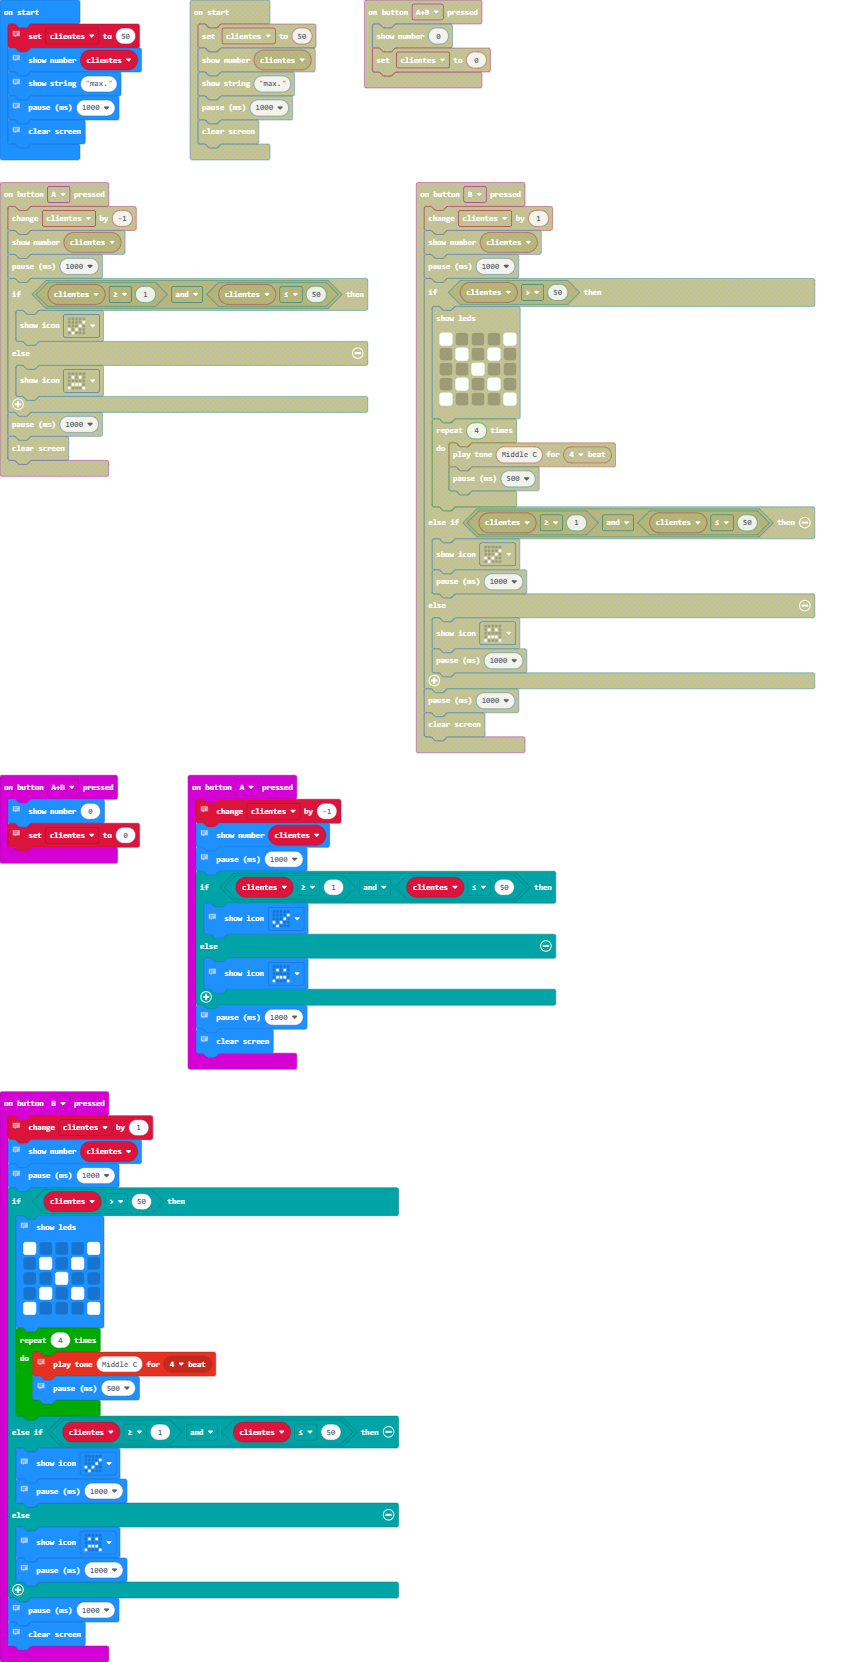
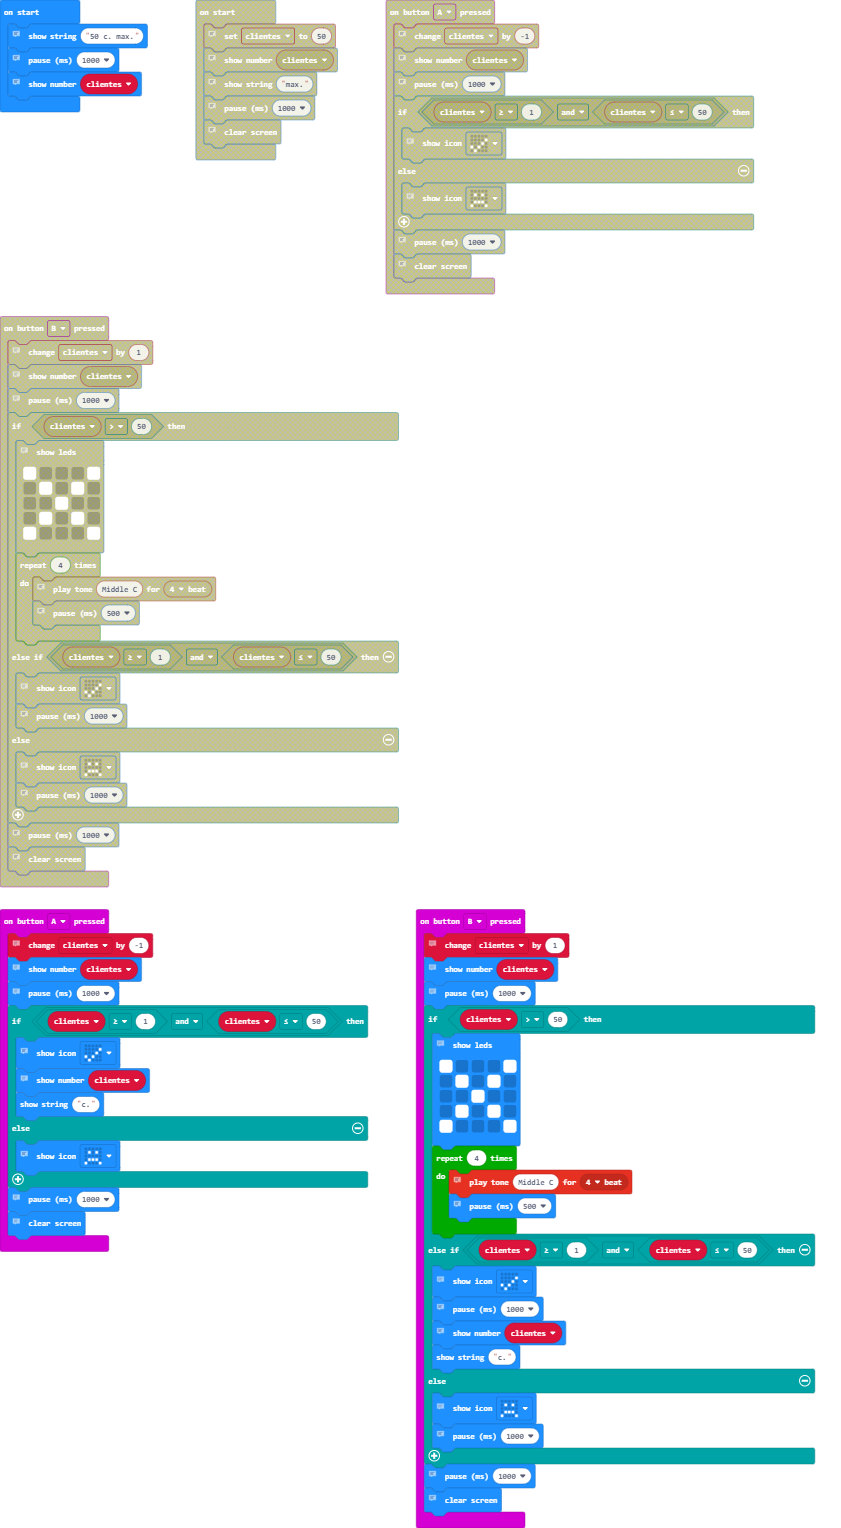
minimal changes

diff --git a/main.ts b/main.ts
@@ -10,6 +10,9 @@ input.onButtonPressed(Button.A, function () {
         // si hay entre 1 y 50 clientes
         // muestre ícono de aforo ideal
         basic.showIcon(IconNames.Yes)
+        // muestre la cantidad actual de clientes
+        basic.showNumber(clientes)
+        basic.showString("c.")
     } else {
         // si hay menos de 1 cliente
         // muestre ícono de que no hay clientela
@@ -57,6 +60,9 @@ input.onButtonPressed(Button.B, function () {
         basic.showIcon(IconNames.Yes)
         // pausa de 1 segundo
         basic.pause(1000)
+        // muestre la cantidad actual de clientes
+        basic.showNumber(clientes)
+        basic.showString("c.")
     } else {
         // muestre ícono de que no hay clientela
         basic.showIcon(IconNames.Sad)
@@ -69,13 +75,10 @@ input.onButtonPressed(Button.B, function () {
     basic.clearScreen()
 })
 let clientes = 0
-// inicialice clientes en 50
-clientes = 50
-// muestre la clientela actual (50)
-basic.showNumber(clientes)
-// completa la oración con la abreviatura de máximo
-basic.showString("max.")
+// inicialice clientes en 0
+// mensaje que diga 50 clientes máximo
+basic.showString("50 c. max.")
 // pausa de 1 segundo
 basic.pause(1000)
-// limpiar pantalla
-basic.clearScreen()
+// muestre la clientela actual (0) si se abre la tienda
+basic.showNumber(clientes)
